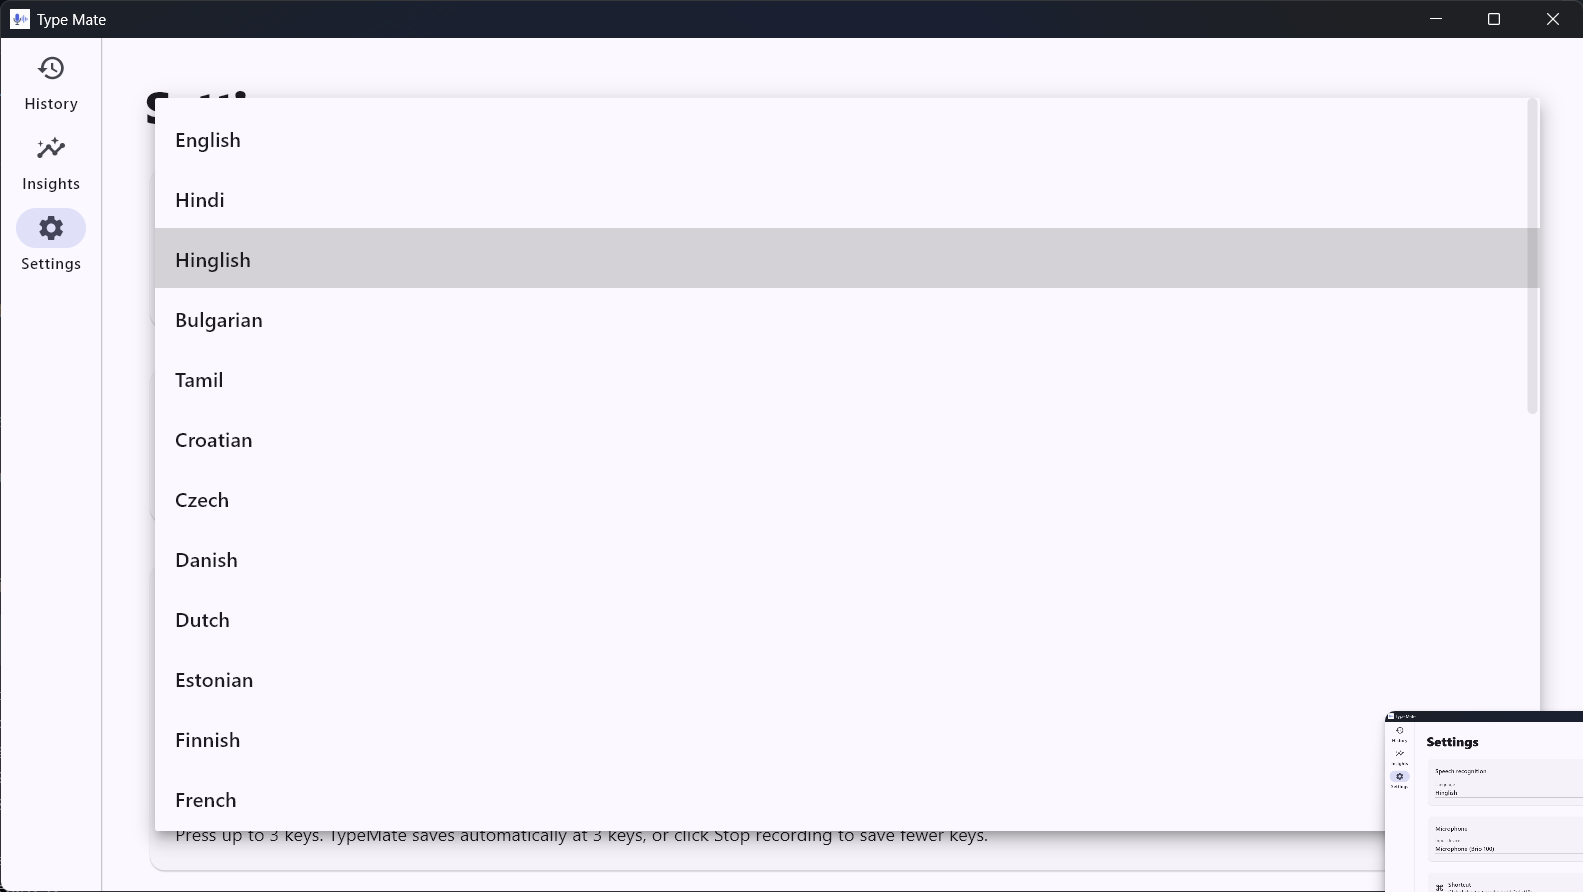
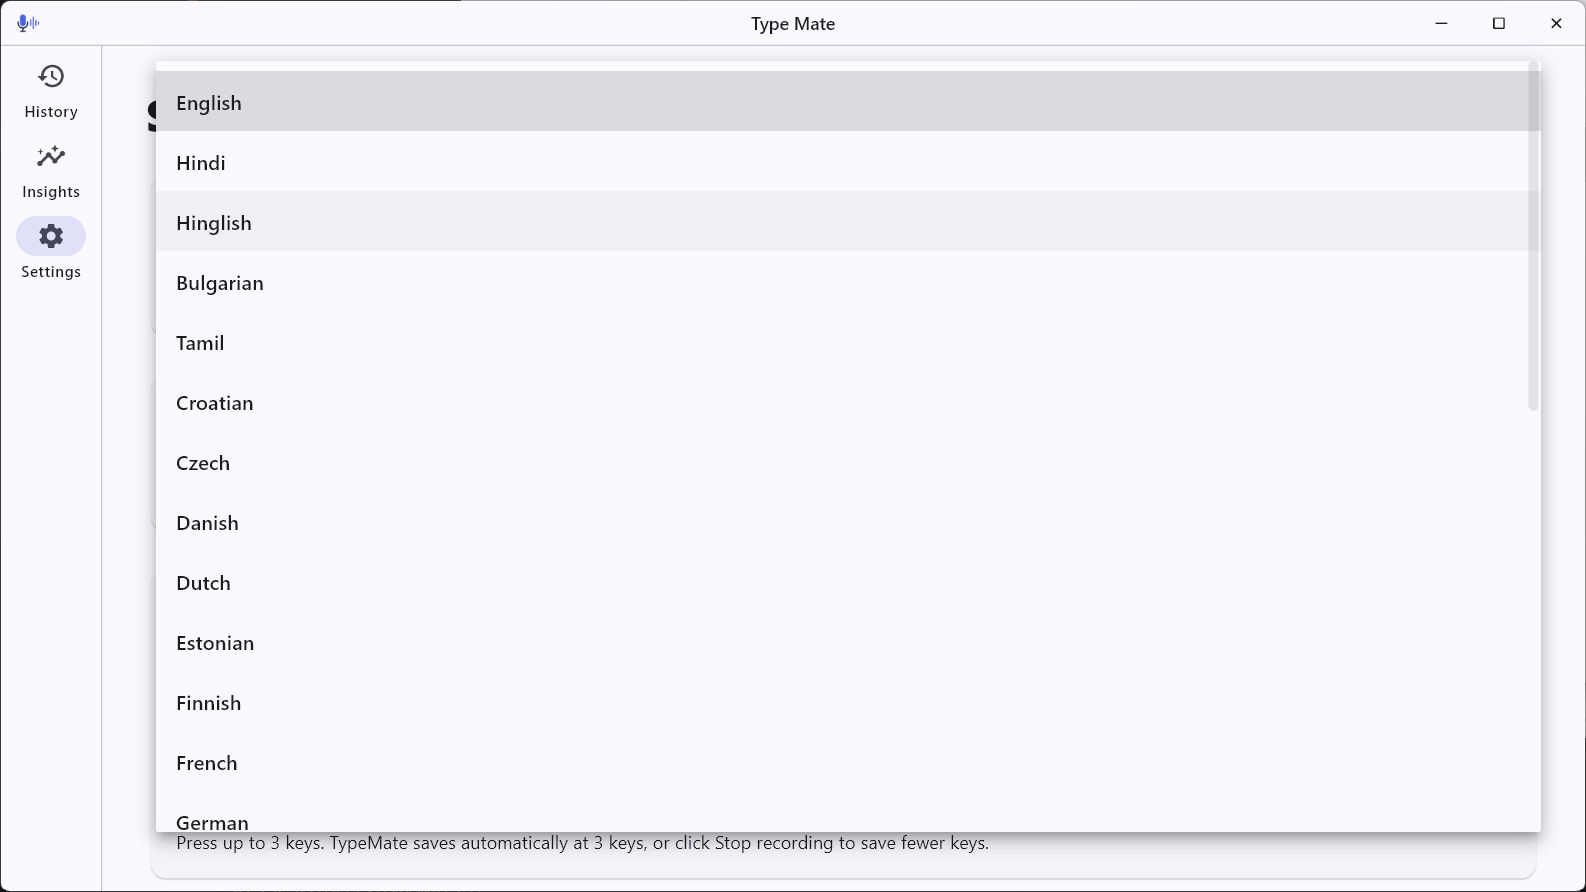
docs: refreshed screenshots with the new title bar; add Insights shot

diff --git a/README.md b/README.md
@@ -32,7 +32,11 @@ TypeMate is a desktop dictation app for Windows that runs **100% locally** — e
 
 ![Speech history](docs/media/history.png)
 
-*Every dictation lands in a local-only history alongside a usage dashboard.*
+*Every dictation lands in a local-only history you can copy from or clear.*
+
+![Insights dashboard](docs/media/insights.png)
+
+*A usage dashboard — words per minute, streaks, activity — computed entirely from your local history.*
 
 ## Install
 
